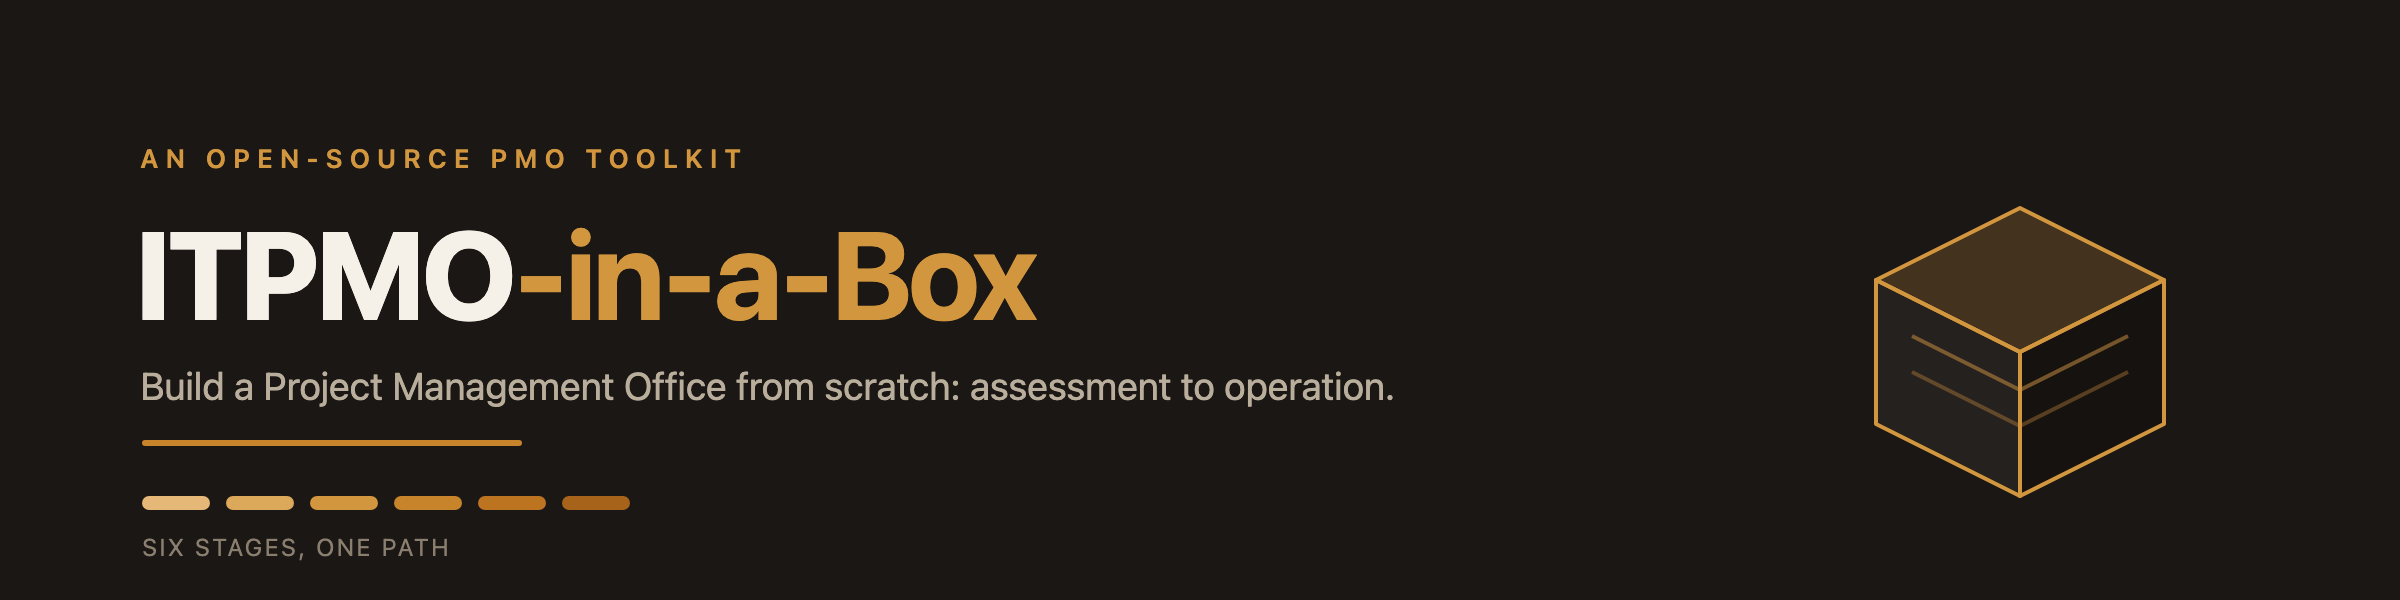
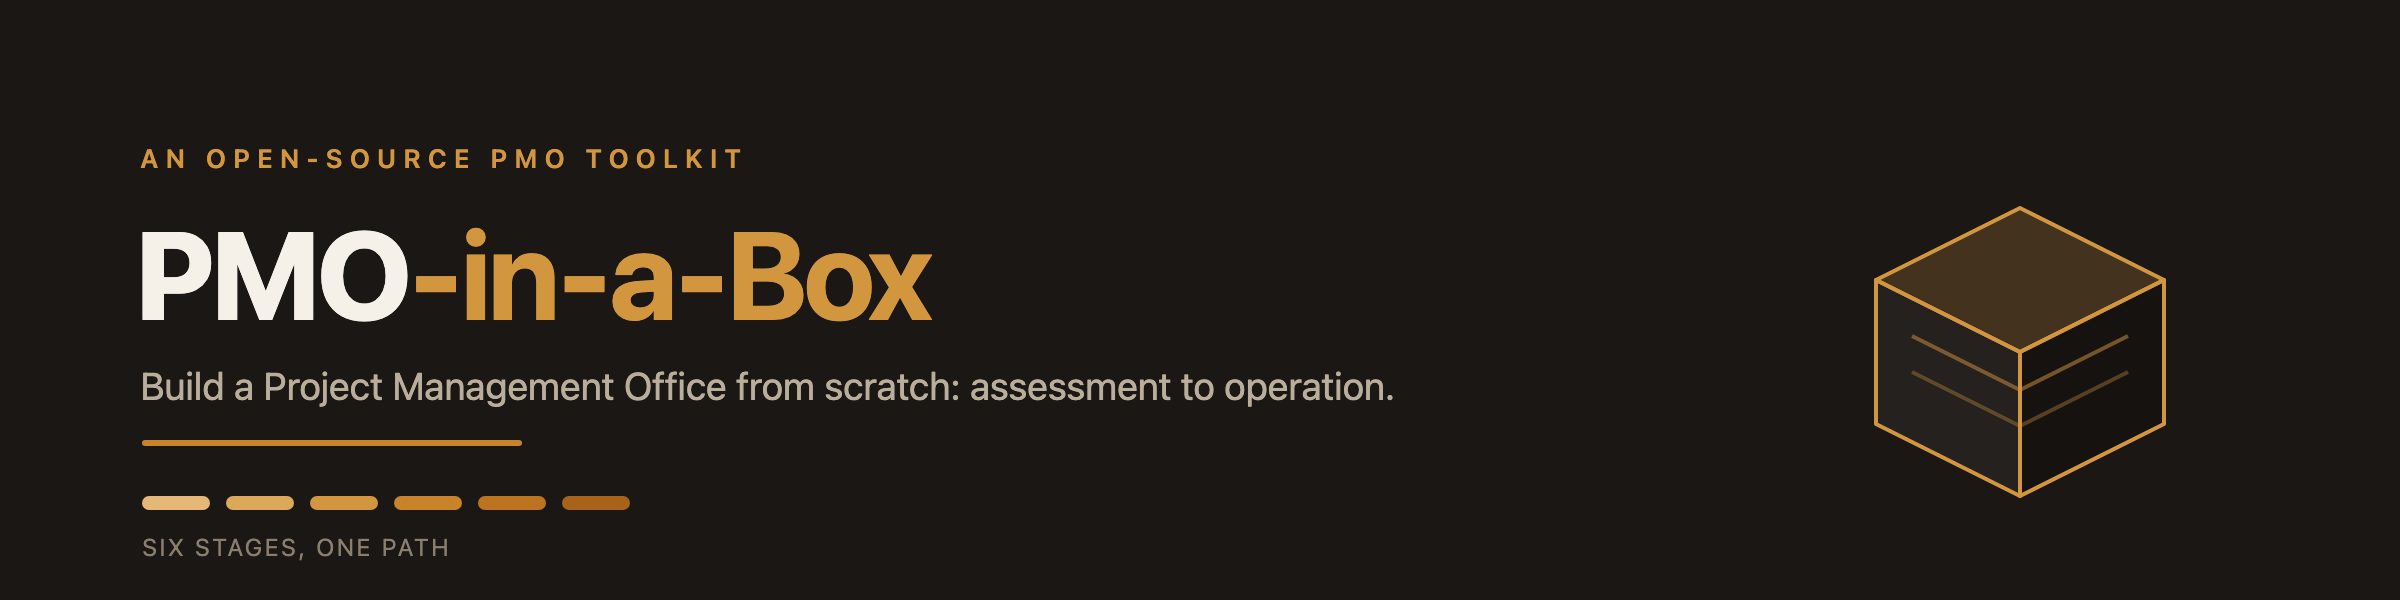
Rebrand to PMO-in-a-Box (remove IT framing for general public use)
Drop the IT-specific naming so the toolkit reads as a generic Project Management
Office resource. Updates wordmark, README, docs, LICENSE, and document metadata.

Changed region(s): [[0.0625, 0.36, 0.4375, 0.54]]

diff --git a/README.md b/README.md
@@ -1,6 +1,6 @@
 <div align="center">
 
-<img src="docs/assets/hero.png" alt="ITPMO-in-a-Box: an open-source toolkit to build a Project Management Office from scratch, assessment to operation" width="100%">
+<img src="docs/assets/hero.png" alt="PMO-in-a-Box: an open-source toolkit to build a Project Management Office from scratch, assessment to operation" width="100%">
 
 <br>
 
@@ -11,7 +11,7 @@
 
 </div>
 
-Standing up a PMO usually means months spent rebuilding the same charters, governance plans, and reporting packs from a blank page. **ITPMO-in-a-Box** hands you the entire journey as editable, brand-neutral templates, organized so you adapt instead of start over.
+Standing up a PMO usually means months spent rebuilding the same charters, governance plans, and reporting packs from a blank page. **PMO-in-a-Box** hands you the entire journey as editable, brand-neutral templates, organized so you adapt instead of start over.
 
 Every file is sector-neutral, English, and free to reuse under [CC BY 4.0](LICENSE). Open a template, replace the `[Your Organization]` placeholders, and you are moving.
 
@@ -32,7 +32,7 @@ Every file is sector-neutral, English, and free to reuse under [CC BY 4.0](LICEN
 
 ## Who it is for
 
-PMO leads, IT and transformation managers, and consultants who need to establish or mature a PMO without starting from zero. It also works as a checklist for reviewing a PMO you already run.
+PMO leads, transformation managers, and consultants who need to establish or mature a PMO without starting from zero. It also works as a checklist for reviewing a PMO you already run.
 
 ## Start here
 
@@ -60,7 +60,7 @@ Every template uses the same neutral placeholders, so a single Find and Replace 
 ## What is inside
 
 ```
-itpmo-in-a-box/
+pmo-in-a-box/
 ├── 00-start-here/   Guides and establishment deck, read this first
 ├── 01-assess/       P3M3 maturity self-assessment, gap and impact analysis
 ├── 02-design/       Charter, operating model, service catalogue, benefits

diff --git a/CONTRIBUTING.md b/CONTRIBUTING.md
@@ -1,6 +1,6 @@
 # Contributing
 
-Thanks for your interest in improving **ITPMO-in-a-Box**! This is a community resource
+Thanks for your interest in improving **PMO-in-a-Box**! This is a community resource
 for anyone building or maturing a Project Management Office. Contributions of all
 sizes are welcome: from fixing a typo to adding a whole new template.
 

diff --git a/NOTICE.md b/NOTICE.md
@@ -1,7 +1,7 @@
 # Notice: Provenance & Attribution
 
 This repository is a **curated, de-branded toolkit** for establishing an IT Project
-Management Office (ITPMO). In the interest of transparency, here is how its contents
+Management Office (PMO). In the interest of transparency, here is how its contents
 originated and how they are licensed.
 
 ## 1. Original works (© the author, licensed CC BY 4.0)

diff --git a/docs/methodology.md b/docs/methodology.md
@@ -1,6 +1,6 @@
 # Methodology
 
-ITPMO-in-a-Box is grounded in two established bodies of knowledge: the **P3M3 maturity
+PMO-in-a-Box is grounded in two established bodies of knowledge: the **P3M3 maturity
 model** and **PMI good practice**. This page gives a short, practical overview and links
 to the official sources. The frameworks themselves are **referenced for guidance only and
 are not redistributed here**: please obtain the official manuals from their owners.